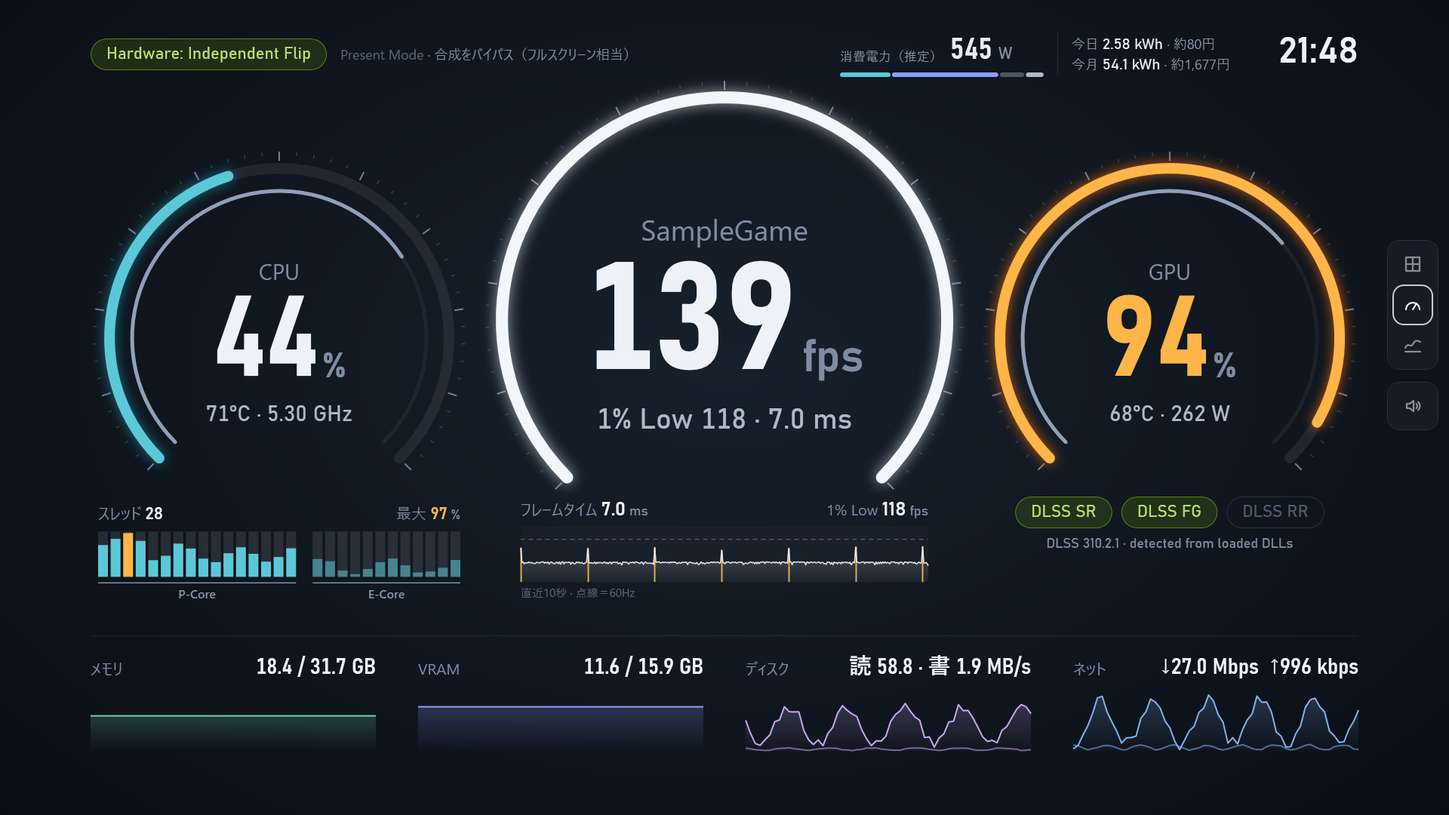
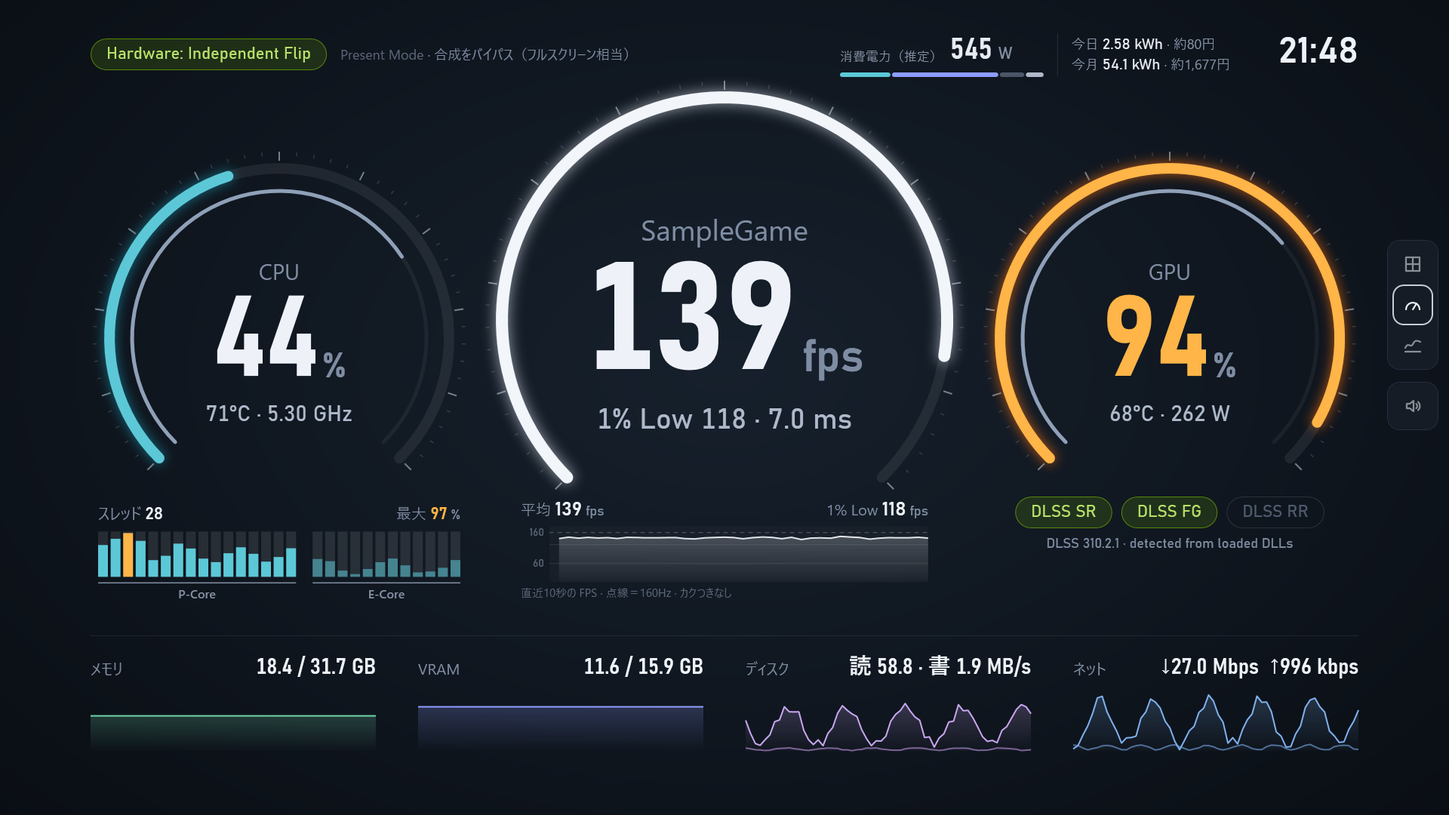
計器盤のフレームタイムのグラフを FPS の推移に変更（0.25秒ごとの FPS、目盛り・リフレッシュレートの点線・カクつきの赤い点と回数）

Changed region(s): [[0.3438, 0.6111, 0.6562, 0.7333], [0.5938, 0.4278, 0.6562, 0.6111]]

diff --git a/mockups/frametime.html b/mockups/frametime.html
@@ -1,0 +1,88 @@
+<!doctype html>
+<html lang="ja"><head><meta charset="utf-8">
+<style>
+*{box-sizing:border-box;margin:0;padding:0}
+body{width:1920px;height:1080px;overflow:hidden;font-family:"Yu Gothic UI",sans-serif;color:#EEF2F8;
+ background:radial-gradient(ellipse 70% 80% at 50% 45%,#16202C,#0A0E14);padding:40px 60px}
+.num{font-family:Bahnschrift,sans-serif;font-variant-numeric:tabular-nums}
+h1{font-size:30px;font-weight:600;margin-bottom:6px}
+.sub{color:#7F8DA3;font-size:19px;margin-bottom:26px}
+.grid{display:grid;grid-template-columns:1fr 1fr;gap:34px 70px}
+.card{position:relative}
+.tag{font-size:24px;font-weight:700;margin-bottom:4px}
+.tag b{display:inline-block;width:38px;height:38px;border-radius:19px;background:#FFB547;color:#0A0E14;text-align:center;line-height:38px;margin-right:10px;font-family:Bahnschrift}
+.tag.now b{background:#5A6578;color:#EEF2F8}
+.desc{color:#9AA6B8;font-size:17px;margin-bottom:12px;height:46px}
+.panel{width:810px}
+.head{display:flex;justify-content:space-between;align-items:flex-end;color:#7F8DA3;font-size:30px}
+.head .v{font-family:Bahnschrift;font-size:39px;font-weight:600;color:#EEF2F8}
+.head .u{font-family:Bahnschrift;font-size:27px}
+.cap{color:#5A6578;font-size:22px;margin-top:6px}
+svg text{font-family:Bahnschrift}
+</style></head><body>
+<h1>計器盤：フレームタイムのグラフの案</h1>
+<div class="sub">いまの表示（左上）と3つの案。データは同じ（witcher3 で 77 fps・1% Low 25 fps・ときどきカクつく想定）。パネルは実寸の1.5倍で表示</div>
+<div class="grid">
+ <div class="card"><div class="tag now"><b>今</b>いまの表示</div>
+  <div class="desc">1フレームごとの時間。速い・遅いフレームが交互に来ると、平均の1.6倍を超えた縦線だらけで赤く塗りつぶされ、何を見ればいいか分からない</div>
+  <div class="panel" id="p0"></div></div>
+ <div class="card"><div class="tag"><b>A</b>FPS の推移（おすすめ）</div>
+  <div class="desc">上の大きな fps と同じ単位で、0.25秒ごとの FPS を線で描く。高いほど良い。目盛り（60 / 120 / 160）を付け、ガクッと落ちた所にだけ赤い点</div>
+  <div class="panel" id="pA"></div></div>
+ <div class="card"><div class="tag"><b>B</b>フレームタイム（整理版）</div>
+  <div class="desc">フレームタイムのまま、ばらつきを薄い帯にまとめて平均を線で描く。目盛りに「60fps / 30fps」を添え、本当のカクつき（33ms 超かつ普段の2.5倍）だけ赤</div>
+  <div class="panel" id="pB"></div></div>
+ <div class="card"><div class="tag"><b>C</b>なめらかさの内訳</div>
+  <div class="desc">グラフをやめ、直近10秒のフレームが「どの速さだったか」の割合を1本の帯で見せる。カクつきの回数も数字で出す</div>
+  <div class="panel" id="pC"></div></div>
+</div>
+<script>
+// 疑似データ：10秒・約770フレーム。速い/遅いが交互＋ときどき大きなカクつき
+let s=7;const r=()=>(s=(s*16807)%2147483647)/2147483647;
+const ft=[];let t=0;
+while(t<10000){let base=12.5+Math.sin(t/1400)*1.6;let v=(ft.length%2?base*1.45:base*0.6)+ (r()-.5)*1.5;
+ if(r()<0.006)v=38+r()*14; ft.push(v);t+=v;}
+const W=810,H=120,ref=1000/160;
+const head=(l,v,u,rl,rv,ru)=>`<div class="head"><span>${l} <span class="v">${v}</span><span class="u"> ${u}</span></span><span>${rl} <span class="v" style="color:${rl.includes('1%')?'#FFB547':'#EEF2F8'}">${rv}</span><span class="u"> ${ru}</span></span></div>`;
+const box=`<rect x="0" y="0" width="${W}" height="${H}" rx="6" fill="rgba(255,255,255,.025)"/>`;
+// 今
+(()=>{const avg=ft.reduce((a,b)=>a+b)/ft.length,top=Math.max(avg*2.2,ref*1.3);const Y=v=>H-H*Math.min(v,top)/top;
+ const n=Math.floor(W/1.5),mx=new Array(n).fill(0);ft.forEach((v,i)=>{const b=Math.floor(i*n/ft.length);if(v>mx[b])mx[b]=v});
+ let line='',bars='';mx.forEach((v,b)=>{const x=W*b/(n-1);line+=(b?'L':'M')+x.toFixed(1)+','+Y(v).toFixed(1);
+  if(v>avg*1.6)bars+=`<line x1="${x}" y1="${H}" x2="${x}" y2="${Y(v)}" stroke="${v>avg*2.2?'#FF5D5D':'#FFB547'}" stroke-opacity=".9" stroke-width="3"/>`});
+ document.getElementById('p0').innerHTML=head('フレームタイム','13.0','ms','1% Low','25','fps')+
+ `<svg width="${W}" height="${H+9}" style="margin-top:9px">${box}<line x1="0" x2="${W}" y1="${Y(ref)}" y2="${Y(ref)}" stroke="#7F8DA3" stroke-dasharray="7 9"/><path d="${line}" fill="none" stroke="#F2F5FA" stroke-width="2.4"/>${bars}</svg><div class="cap">直近10秒 · 点線＝160Hz</div>`;})();
+// A
+(()=>{const step=250,pts=[];let acc=0,cnt=0,edge=step,dips=[];let mn=1e9;
+ ft.forEach(v=>{acc+=v;cnt++;if(v>mn)0; if(v>30)dips.push(acc);});
+ let tt=0,a=0,c=0;ft.forEach(v=>{tt+=v;a+=v;c++;if(tt>=edge){pts.push(1000*c/a);a=0;c=0;edge+=step;}});
+ const top=180,L=56,PW=W-L,Y=v=>H-H*Math.min(v,top)/top;let d='',area='';
+ pts.forEach((v,i)=>{const x=L+PW*i/(pts.length-1);d+=(i?'L':'M')+x.toFixed(1)+','+Y(v).toFixed(1)});
+ area=d+`L${W},${H}L${L},${H}Z`;
+ let grid='';[60,120,160].forEach(g=>{grid+=`<line x1="${L}" x2="${W}" y1="${Y(g)}" y2="${Y(g)}" stroke="rgba(255,255,255,${g==160?.22:.1})" ${g==160?'stroke-dasharray="7 9"':''}/><text x="${L-10}" y="${Y(g)+7}" text-anchor="end" font-size="20" fill="#5A6578">${g}</text>`});
+ let dots='';dips.forEach(tm=>{const x=L+PW*tm/10000;dots+=`<circle cx="${x}" cy="${H-10}" r="6" fill="#FF5D5D"/>`});
+ document.getElementById('pA').innerHTML=head('平均','77','fps','1% Low','25','fps')+
+ `<svg width="${W}" height="${H+9}" style="margin-top:9px"><rect x="${L}" y="0" width="${PW}" height="${H}" rx="6" fill="rgba(255,255,255,.025)"/>${grid}
+ <defs><linearGradient id="ga" x1="0" y1="0" x2="0" y2="1"><stop offset="0" stop-color="#F2F5FA" stop-opacity=".22"/><stop offset="1" stop-color="#F2F5FA" stop-opacity=".02"/></linearGradient></defs>
+ <path d="${area}" fill="url(#ga)"/><path d="${d}" fill="none" stroke="#F2F5FA" stroke-width="3" stroke-linejoin="round"/>${dots}</svg>
+ <div class="cap">直近10秒の FPS · 点線＝160Hz · <span style="color:#FF5D5D">●</span> カクつき ${dips.length} 回</div>`;})();
+// B
+(()=>{const top=50,L=56,PW=W-L,Y=v=>H-H*Math.min(v,top)/top;const n=80;const lo=new Array(n).fill(1e9),hi=new Array(n).fill(0),sm=new Array(n).fill(0),ct=new Array(n).fill(0);
+ const sorted=[...ft].sort((a,b)=>a-b),med=sorted[Math.floor(ft.length/2)];const st=[];
+ ft.forEach((v,i)=>{const b=Math.floor(i*n/ft.length);lo[b]=Math.min(lo[b],v);hi[b]=Math.max(hi[b],v>30?hi[b]:v);sm[b]+=v;ct[b]++;if(v>33.3&&v>med*2.5)st.push(i)});
+ let band='',back='',d='';for(let b=0;b<n;b++){const x=L+PW*b/(n-1);band+=(b?'L':'M')+x+','+Y(hi[b]);d+=(b?'L':'M')+x+','+Y(sm[b]/ct[b]);}
+ for(let b=n-1;b>=0;b--){band+='L'+(L+PW*b/(n-1))+','+Y(lo[b]);}band+='Z';
+ let grid='';[[16.7,'60fps'],[33.3,'30fps']].forEach(([g,l])=>{grid+=`<line x1="${L}" x2="${W}" y1="${Y(g)}" y2="${Y(g)}" stroke="rgba(255,255,255,.1)"/><text x="${L-10}" y="${Y(g)+7}" text-anchor="end" font-size="17" fill="#5A6578">${l}</text>`});
+ let sp='';st.forEach(i=>{const x=L+PW*i/ft.length;sp+=`<line x1="${x}" x2="${x}" y1="${H}" y2="${Y(ft[i])}" stroke="#FF5D5D" stroke-width="3.5" stroke-linecap="round"/>`});
+ document.getElementById('pB').innerHTML=head('フレームタイム','13.0','ms','1% Low','25','fps')+
+ `<svg width="${W}" height="${H+9}" style="margin-top:9px"><rect x="${L}" y="0" width="${PW}" height="${H}" rx="6" fill="rgba(255,255,255,.025)"/>${grid}<path d="${band}" fill="rgba(242,245,250,.14)"/><path d="${d}" fill="none" stroke="#F2F5FA" stroke-width="3"/>${sp}</svg>
+ <div class="cap">直近10秒 · 低いほど良い · 帯＝ばらつき · <span style="color:#FF5D5D">|</span> カクつき ${st.length} 回</div>`;})();
+// C
+(()=>{const bins=[[8.3,'120fps 以上','#6FD3A8'],[16.7,'60〜120','#5CC8D7'],[33.3,'30〜60','#FFB547'],[1e9,'30 未満','#FF5D5D']];const c=[0,0,0,0];
+ ft.forEach(v=>{for(let k=0;k<4;k++)if(v<bins[k][0]){c[k]++;break;}});const tot=ft.length;let x=0,seg='',leg='';
+ c.forEach((n,k)=>{const w=W*n/tot;seg+=`<rect x="${x}" y="0" width="${Math.max(w-3,0)}" height="44" rx="5" fill="${bins[k][2]}" fill-opacity=".85"/>`;x+=w;
+  leg+=`<div style="display:flex;align-items:center;gap:8px"><i style="width:14px;height:14px;border-radius:3px;background:${bins[k][2]}"></i><span style="color:#9AA6B8;font-size:20px">${bins[k][1]}</span><span class="num" style="font-size:24px;font-weight:600">${Math.round(100*n/tot)}%</span></div>`});
+ document.getElementById('pC').innerHTML=head('フレームタイム','13.0','ms','1% Low','25','fps')+
+ `<svg width="${W}" height="56" style="margin-top:14px">${seg}</svg><div style="display:flex;justify-content:space-between;margin-top:8px">${leg}</div>
+ <div class="cap" style="margin-top:10px">直近10秒のフレームの内訳 · カクつき（30fps 未満）<span class="num" style="color:#FF5D5D;font-size:24px"> ${c[3]} </span>回</div>`;})();
+</script></body></html>

diff --git a/Views/GaugeView.xaml b/Views/GaugeView.xaml
@@ -159,7 +159,7 @@
             </StackPanel>
         </Grid>
 
-        <!-- ============ フレームタイム（FPS メーターの下の開いた部分） -->
+        <!-- ============ FPS の推移（FPS メーターの下の開いた部分。元はフレームタイムのグラフ） -->
         <Grid x:Name="FrameTimePanel" Canvas.Left="690" Canvas.Top="660" Width="540" Opacity="0.45">
             <Grid.RowDefinitions>
                 <RowDefinition Height="Auto"/>
@@ -167,14 +167,14 @@
                 <RowDefinition Height="Auto"/>
             </Grid.RowDefinitions>
             <TextBlock FontFamily="{StaticResource UiFont}" FontSize="20" Foreground="#7F8DA3" VerticalAlignment="Bottom">
-                <Run Text="フレームタイム "/><Run x:Name="FtValue" Text="--" FontFamily="{StaticResource NumFont}" FontSize="26" FontWeight="SemiBold" Foreground="#EEF2F8"/><Run Text=" ms" FontFamily="{StaticResource NumFont}" FontSize="18"/>
+                <Run Text="平均 "/><Run x:Name="FtValue" Text="--" FontFamily="{StaticResource NumFont}" FontSize="26" FontWeight="SemiBold" Foreground="#EEF2F8"/><Run Text=" fps" FontFamily="{StaticResource NumFont}" FontSize="18"/>
             </TextBlock>
             <TextBlock FontFamily="{StaticResource UiFont}" FontSize="20" Foreground="#7F8DA3" HorizontalAlignment="Right" VerticalAlignment="Bottom">
                 <Run Text="1% Low "/><Run x:Name="LowValue" Text="--" FontFamily="{StaticResource NumFont}" FontSize="26" FontWeight="SemiBold" Foreground="#EEF2F8"/><Run Text=" fps" FontFamily="{StaticResource NumFont}" FontSize="18"/>
             </TextBlock>
             <c:FrameTimeChart x:Name="FrameChart" Grid.Row="1" Margin="0,6,0,0"/>
             <TextBlock x:Name="FtCaption" Grid.Row="2" FontFamily="{StaticResource UiFont}" FontSize="15" Foreground="#5A6578" Margin="0,4,0,0"
-                       Text="直近10秒"/>
+                       Text="直近10秒の FPS"/>
         </Grid>
 
         <!-- ============ DLSS（GPU メーターの下）。ゲームが読み込んだ DLL から判定する -->

diff --git a/Controls/FrameTimeChart.cs b/Controls/FrameTimeChart.cs
@@ -1,5 +1,6 @@
 using System;
 using System.Collections.Generic;
+using System.Globalization;
 using System.Linq;
 using System.Windows;
 using System.Windows.Media;
@@ -7,84 +8,135 @@ using System.Windows.Media;
 namespace MyDashboard.Controls;
 
 /// <summary>
-/// 直近のフレームタイム（1フレームごとの描画時間）を線グラフで描く。
-/// 平均より大きく遅れたフレーム（カクつき）は琥珀色・赤の縦線で目立たせ、
-/// 点線でモニターのリフレッシュレートの目安を示す。
+/// 直近のフレームタイムから、0.25 秒ごとの FPS の推移を線グラフで描く（高いほど良い）。
+/// 左に FPS の目盛り（60 / 120 など）、点線でモニターのリフレッシュレートを示し、
+/// 大きく遅れたフレーム（カクつき）は下端に赤い点で示す。
+/// （2026-11-15 に1フレームごとの描画から変更。モックアップ mockups/frametime.png の案 A）
 /// </summary>
 public sealed class FrameTimeChart : FrameworkElement
 {
+    private const double LabelWidth = 38;   // 左の目盛りの文字の幅
+    private const double BinMs = 250;       // FPS を求める区切り
+
     private double[] _ms = Array.Empty<double>();
-    private double _refMs;
+    private double _refreshHz;
+
+    /// <summary>直近の表示でカクつきとして数えたフレームの数。</summary>
+    public int StutterCount { get; private set; }
 
     private static readonly Brush Back = Freeze(new SolidColorBrush(Color.FromArgb(6, 255, 255, 255)));
-    private static readonly Pen LinePen = FreezePen(new Pen(Freeze(new SolidColorBrush(Color.FromArgb(230, 0xF2, 0xF5, 0xFA))), 1.6) { LineJoin = PenLineJoin.Round });
-    private static readonly Pen WarnPen = FreezePen(new Pen(Freeze(new SolidColorBrush(Color.FromArgb(230, 0xFF, 0xB5, 0x47))), 2));
-    private static readonly Pen CritPen = FreezePen(new Pen(Freeze(new SolidColorBrush(Color.FromArgb(230, 0xFF, 0x5D, 0x5D))), 2));
-    private static readonly Pen RefPen = FreezePen(new Pen(Freeze(new SolidColorBrush(Color.FromArgb(180, 0x7F, 0x8D, 0xA3))), 1)
+    private static readonly Pen LinePen = FreezePen(new Pen(Freeze(new SolidColorBrush(Color.FromArgb(235, 0xF2, 0xF5, 0xFA))), 2) { LineJoin = PenLineJoin.Round });
+    private static readonly Pen GridPen = FreezePen(new Pen(Freeze(new SolidColorBrush(Color.FromArgb(26, 255, 255, 255))), 1));
+    private static readonly Pen RefPen = FreezePen(new Pen(Freeze(new SolidColorBrush(Color.FromArgb(70, 255, 255, 255))), 1)
     { DashStyle = new DashStyle(new double[] { 5, 6 }, 0) });
+    private static readonly Brush LabelBrush = Freeze(new SolidColorBrush(Color.FromRgb(0x5A, 0x65, 0x78)));
+    private static readonly Brush DotBrush = Freeze(new SolidColorBrush(Color.FromRgb(0xFF, 0x5D, 0x5D)));
     private static readonly Brush Fill = Freeze(new LinearGradientBrush(
         Color.FromArgb(56, 0xF2, 0xF5, 0xFA), Color.FromArgb(5, 0xF2, 0xF5, 0xFA), 90));
+    private static readonly Typeface LabelFace = new(new FontFamily("Bahnschrift"), FontStyles.Normal, FontWeights.Normal, FontStretches.Normal);
 
-    /// <summary>フレームタイム（ms、古い順）と、目安の線の位置（ms）を渡して描き直す。</summary>
-    public void SetData(IReadOnlyList<double>? frameTimes, double refMs)
+    /// <summary>フレームタイム（ms、古い順）とモニターのリフレッシュレート（Hz）を渡して描き直す。</summary>
+    public void SetData(IReadOnlyList<double>? frameTimes, double refreshHz)
     {
-        _ms = frameTimes?.ToArray() ?? Array.Empty<double>();
-        _refMs = refMs;
+        _ms = frameTimes?.Where(v => v > 0).ToArray() ?? Array.Empty<double>();
+        _refreshHz = refreshHz;
+        StutterCount = CountStutters(_ms, out _);
         InvalidateVisual();
+    }
+
+    /// <summary>カクつき＝33ms（30fps）を超え、かつ普段（中央値）の2.5倍を超えて遅れたフレーム。</summary>
+    private static int CountStutters(double[] ms, out bool[] flags)
+    {
+        flags = new bool[ms.Length];
+        if (ms.Length < 2) return 0;
+        var sorted = (double[])ms.Clone();
+        Array.Sort(sorted);
+        double median = sorted[sorted.Length / 2];
+        int n = 0;
+        for (int i = 0; i < ms.Length; i++)
+            if (ms[i] > 33.3 && ms[i] > median * 2.5) { flags[i] = true; n++; }
+        return n;
     }
 
     protected override void OnRender(DrawingContext dc)
     {
         double w = ActualWidth, h = ActualHeight;
-        if (w < 10 || h < 10) return;
-        dc.DrawRoundedRectangle(Back, null, new Rect(0, 0, w, h), 4, 4);
-        if (_ms.Length < 2) return;
+        if (w < LabelWidth + 10 || h < 10) return;
+        double x0 = LabelWidth, pw = w - x0;
+        dc.DrawRoundedRectangle(Back, null, new Rect(x0, 0, pw, h), 4, 4);
 
-        double avg = _ms.Average();
-        // 縦軸：平均の2.2倍か目安の線の1.3倍の大きい方を上端にする（それを超えるカクつきは上端で切る）
-        double top = Math.Max(avg * 2.2, _refMs * 1.3);
-        double Y(double v) => h - h * Math.Min(v, top) / top;
+        double hz = _refreshHz > 0 ? _refreshHz : 60;
 
-        // 1ピクセル半ごとにまとめる。カクつきが消えないよう、まとめた中の最大値を使う
-        int buckets = Math.Max(2, Math.Min(_ms.Length, (int)(w / 1.5)));
-        var max = new double[buckets];
-        for (int i = 0; i < _ms.Length; i++)
+        // 0.25 秒ごとの FPS（区切りの終わりの時刻と一緒に持つ）
+        var times = new List<double>();
+        var fps = new List<double>();
+        double total = 0, sum = 0; int cnt = 0;
+        foreach (var v in _ms)
         {
-            int b = (int)((long)i * buckets / _ms.Length);
-            if (_ms[i] > max[b]) max[b] = _ms[i];
+            total += v; sum += v; cnt++;
+            if (sum >= BinMs) { times.Add(total); fps.Add(1000.0 * cnt / sum); sum = 0; cnt = 0; }
+        }
+        if (cnt > 0 && sum >= BinMs * 0.4) { times.Add(total); fps.Add(1000.0 * cnt / sum); }
+
+        // 縦軸：リフレッシュレートの1.12倍か、最高値の1.05倍の大きい方を上端にする
+        double top = Math.Max(hz * 1.12, (fps.Count > 0 ? fps.Max() : 0) * 1.05);
+        double Y(double v) => h - h * Math.Clamp(v, 0, top) / top;
+
+        double ppd = VisualTreeHelper.GetDpi(this).PixelsPerDip;
+        void Label(double v, double y)
+        {
+            var ft = new FormattedText(v.ToString("0", CultureInfo.InvariantCulture), CultureInfo.InvariantCulture,
+                FlowDirection.LeftToRight, LabelFace, 14, LabelBrush, ppd);
+            dc.DrawText(ft, new Point(x0 - 7 - ft.Width, Math.Clamp(y - ft.Height / 2, -2, h - ft.Height + 2)));
         }
 
-        if (_refMs > 0 && _refMs < top)
+        // 目盛り：60・120・240 のうちリフレッシュレートより十分低いもの＋リフレッシュレート（点線）
+        foreach (var g in new double[] { 60, 120, 240 })
         {
-            double ry = Math.Round(Y(_refMs)) + 0.5;
-            dc.DrawLine(RefPen, new Point(0, ry), new Point(w, ry));
+            if (g > hz * 0.88) continue;
+            double gy = Math.Round(Y(g)) + 0.5;
+            dc.DrawLine(GridPen, new Point(x0, gy), new Point(w, gy));
+            if (gy - Y(hz) >= 17) Label(g, gy);   // リフレッシュレートの数字と重なるときは数字を省く
         }
+        double ry = Math.Round(Y(hz)) + 0.5;
+        dc.DrawLine(RefPen, new Point(x0, ry), new Point(w, ry));
+        Label(hz, ry);
+
+        if (fps.Count < 2 || total <= 0) return;
+        double X(double t) => x0 + pw * t / total;
 
         var line = new StreamGeometry();
         var area = new StreamGeometry();
         using (var lc = line.Open())
         using (var ac = area.Open())
         {
-            ac.BeginFigure(new Point(0, h), true, true);
-            for (int b = 0; b < buckets; b++)
+            double first = X(times[0]);
+            ac.BeginFigure(new Point(first, h), true, true);
+            for (int i = 0; i < fps.Count; i++)
             {
-                var p = new Point(w * b / (buckets - 1), Y(max[b]));
-                if (b == 0) lc.BeginFigure(p, false, false); else lc.LineTo(p, true, false);
+                var p = new Point(X(times[i]), Y(fps[i]));
+                if (i == 0) lc.BeginFigure(p, false, false); else lc.LineTo(p, true, false);
                 ac.LineTo(p, false, false);
             }
-            ac.LineTo(new Point(w, h), false, false);
+            ac.LineTo(new Point(X(times[^1]), h), false, false);
         }
         line.Freeze();
         area.Freeze();
         dc.DrawGeometry(Fill, null, area);
-
-        for (int b = 0; b < buckets; b++)
-        {
-            if (max[b] <= avg * 1.6) continue;
-            double x = Math.Round(w * b / (buckets - 1)) + 0.5;
-            dc.DrawLine(max[b] > avg * 2.2 ? CritPen : WarnPen, new Point(x, h), new Point(x, Y(max[b])));
-        }
         dc.DrawGeometry(null, LinePen, line);
+
+        // カクつきの赤い点（近いものは1つにまとめる）
+        CountStutters(_ms, out var flags);
+        double t2 = 0, lastX = double.NegativeInfinity;
+        for (int i = 0; i < _ms.Length; i++)
+        {
+            t2 += _ms[i];
+            if (!flags[i]) continue;
+            double x = X(t2);
+            if (x - lastX < 9) continue;
+            dc.DrawEllipse(DotBrush, null, new Point(Math.Clamp(x, x0 + 4, w - 4), h - 7), 4, 4);
+            lastX = x;
+        }
     }
 
     private static Brush Freeze(Brush b) { b.Freeze(); return b; }

diff --git a/Views/GaugeView.xaml.cs b/Views/GaugeView.xaml.cs
@@ -36,7 +36,7 @@ public partial class GaugeView : UserControl, IDashboardView
         InitializeComponent();
         foreach (var chart in new[] { MemChart, VramChart, DiskChart, NetChart })
             chart.SetCapacity(Math.Max(20, ctx.HistoryPoints * 2 / 3));
-        FtCaption.Text = $"直近10秒 · 点線＝{_refreshRate:0}Hz";
+        SetFtCaption(null);
 
         Threads.Normal = _cpu;
         Threads.ECore = BarMeter.Freeze(new SolidColorBrush(Color.FromArgb(0x8C, 0x5C, 0xC8, 0xD7)));  // CPU 色を淡く
@@ -107,11 +107,12 @@ public partial class GaugeView : UserControl, IDashboardView
             Status.Text = "";
 
             FrameTimePanel.Opacity = 1;
-            FtValue.Text = f.FrameTimeMs is { } ms ? ms.ToString("0.0", System.Globalization.CultureInfo.InvariantCulture) : "--";
+            FtValue.Text = Fmt.Num(fps);
             LowValue.Text = Fmt.Num(f.Low1Percent);
             // 1% Low が平均の7割を切ったら琥珀色（カクつきが目立つ状態）
             LowValue.Foreground = f.Low1Percent is { } low && low < fps * 0.7 ? ViewContext.Res("Warn") : _value;
-            FrameChart.SetData(f.FrameTimes, 1000.0 / _refreshRate);
+            FrameChart.SetData(f.FrameTimes, _refreshRate);
+            SetFtCaption(FrameChart.StutterCount);
             ShowDlss(f.Dlss);
             ShowPresentMode(f.PresentMode);
         }
@@ -121,7 +122,8 @@ public partial class GaugeView : UserControl, IDashboardView
             FtValue.Text = "--";
             LowValue.Text = "--";
             LowValue.Foreground = _value;
-            FrameChart.SetData(null, 1000.0 / _refreshRate);
+            FrameChart.SetData(null, _refreshRate);
+            SetFtCaption(null);
             ShowDlss(null);
             ShowPresentMode(null);
 
@@ -260,6 +262,18 @@ public partial class GaugeView : UserControl, IDashboardView
         string F(double v) => (v / div).ToString(v / div >= 100 || div == 1024 ? "0" : "0.0",
                                                   System.Globalization.CultureInfo.InvariantCulture);
         return $"読 {F(read)} · 書 {F(write)} {unit}";
+    }
+
+    /// <summary>グラフの下の説明。カクつきの回数（計測中だけ）を赤い点と一緒に出す。</summary>
+    private void SetFtCaption(int? stutters)
+    {
+        FtCaption.Inlines.Clear();
+        FtCaption.Inlines.Add(new System.Windows.Documents.Run($"直近10秒の FPS · 点線＝{_refreshRate:0}Hz"));
+        if (stutters is not { } n) return;
+        if (n == 0) { FtCaption.Inlines.Add(new System.Windows.Documents.Run(" · カクつきなし")); return; }
+        FtCaption.Inlines.Add(new System.Windows.Documents.Run(" · "));
+        FtCaption.Inlines.Add(new System.Windows.Documents.Run("●") { Foreground = ViewContext.Res("Crit") });
+        FtCaption.Inlines.Add(new System.Windows.Documents.Run($" カクつき {n} 回"));
     }
 }
 

diff --git a/PROJECT.md b/PROJECT.md
@@ -30,7 +30,7 @@
 - `Views/`：差し替え可能なレイアウト（IDashboardView：Render / UpdateClock / SetNotice / ShowNews / ShowWeather / ShowMedia）
   - ClassicView「標準」：情報量重視のパネル型（スレッド別負荷、ディスクごとの速度まで表示）。見出しの時計の左に消費電力
   - PowerSummary：消費電力（推定）の表示。合計 W・内訳の帯（CPU／GPU／その他／モニター）・今日と今月の kWh と電気代。標準と計器盤の時計の左に置く（2026-10-30 追加、モックアップ `mockups/power-classic.png`・`power-gauge.png`・`power-settings.png`）
-  - GaugeView「計器盤」：CPU・FPS・GPU の円弧メーター3連。外側＝使用率、内側＝温度。FPS の満点はメインモニターのリフレッシュレート。CPU メーターの下にスレッド別負荷（CoreBars、P/E コア別・スレッド数と最大スレッドの %。2026-10-28 追加、モックアップ `mockups/gauge-threads.png`）。FPS メーターの下に直近10秒のフレームタイムのグラフ（FrameTimeChart）と 1% Low、左上に Present Mode のチップ（Hardware＝緑、Composed＝琥珀で「DWM 合成あり」）、右下に DLSS のチップ（SR / FG / RR。DlssDetector が読み込み済み DLL から推定。保護されたゲームは「unavailable」）。最下段にメモリ・VRAM・ディスク・ネットの細い帯。ニュースは表示しない（2026-10-26 に帯を削除）。Present Mode と DLSS は計器盤だけの表示（標準・オーロラには出ない）
+  - GaugeView「計器盤」：CPU・FPS・GPU の円弧メーター3連。外側＝使用率、内側＝温度。FPS の満点はメインモニターのリフレッシュレート。CPU メーターの下にスレッド別負荷（CoreBars、P/E コア別・スレッド数と最大スレッドの %。2026-10-28 追加、モックアップ `mockups/gauge-threads.png`）。FPS メーターの下に直近10秒の FPS の推移（FrameTimeChart。フレームタイムを0.25秒ごとの FPS にして描く。目盛り 60/120＋リフレッシュレートの点線、33ms 超かつ中央値の2.5倍超のフレームを「カクつき」として下端に赤い点・下に回数。2026-11-15 に1フレームごとの描画から変更、モックアップ `mockups/frametime.png` の案 A）と平均 FPS・1% Low、左上に Present Mode のチップ（Hardware＝緑、Composed＝琥珀で「DWM 合成あり」）、右下に DLSS のチップ（SR / FG / RR。DlssDetector が読み込み済み DLL から推定。保護されたゲームは「unavailable」）。最下段にメモリ・VRAM・ディスク・ネットの細い帯。ニュースは表示しない（2026-10-26 に帯を削除）。Present Mode と DLSS は計器盤だけの表示（標準・オーロラには出ない）
   - AuroraView「オーロラ」：日常使い向け。大きな時計・天気（現在＋3時間ごと6コマ）・ニュースカードが主役。FPS は表示しない（2026-10-27 に左上のバッジを削除。ゲーム中の判定は Twitch の低画質切り替え用に残す）。PC 状態は下段の細いバー（x96・下端から84px・高さ120、CPU / GPU / メモリ / VRAM / ネットの5区画と推移グラフ）。背景の光が負荷に連動（CPU 青緑・GPU 紫・高温で赤）。
     - 左列（1920×1080 基準）：時計（y150・文字300）、日付（y470）、天気カード（x96・y556・幅860・高さ200）。曲の再生中は天気の下に再生中カード（x96・y726〜852・幅860・高さ126）を出し、そのあいだ時計・日付・天気を 50px 上げる（MediaLift）。背景にジャケット色の光。再生なし／一時停止5分でカードを隠す
     - 右列：メディアカード（ニュース⇄Twitch⇄YouTube）。右端から96px・上端 y48・幅844×高さ804で、天気・再生中カードの右24px、下段バーの手前まで。ニュースは見出し（46px）＋要約（空き高さに合わせて最大5行）＋次の記事4件、前へ／次へのボタンと件数表示。ダブルクリックで記事を開く
@@ -89,7 +89,7 @@ Info/
   CoreAudio.cs            Windows の音声（Core Audio）の COM 定義。AppVolume と AudioMixer で共用
   TwitchService.cs        Twitch のフォロー中の配信（Helix API）とログイン情報
   YouTubeService.cs       YouTube のチャンネルの新着と配信中、動画の検索（公開ページから読む）
-Controls/                 推移グラフ・円弧メーター・フレームタイムのグラフ・天気アイコン・棒グラフ（自前描画で軽量）
+Controls/                 推移グラフ・円弧メーター・FPS の推移のグラフ・天気アイコン・棒グラフ（自前描画で軽量）
 Monitoring/
   HardwareMonitor.cs      LibreHardwareMonitor で CPU / GPU / ディスクを取得
   NetworkMonitor.cs       送受信速度
